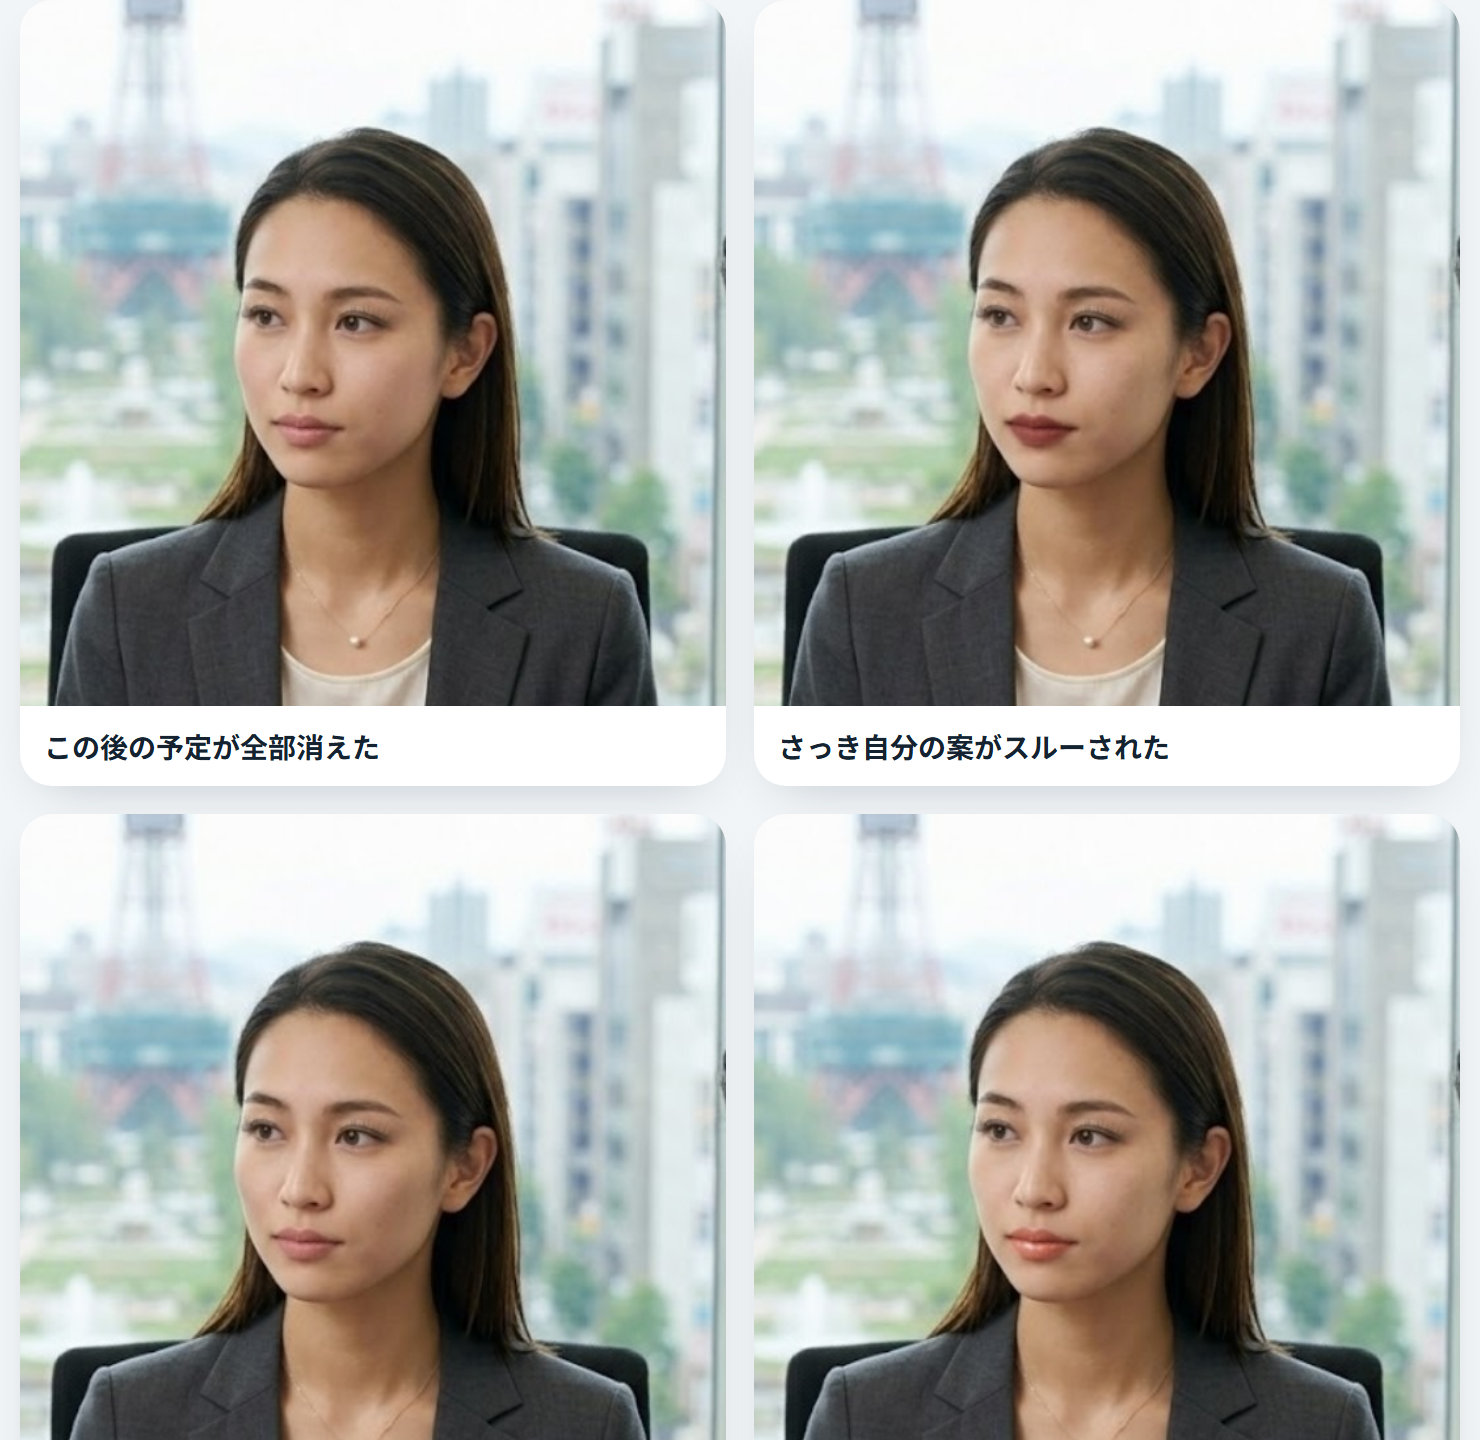
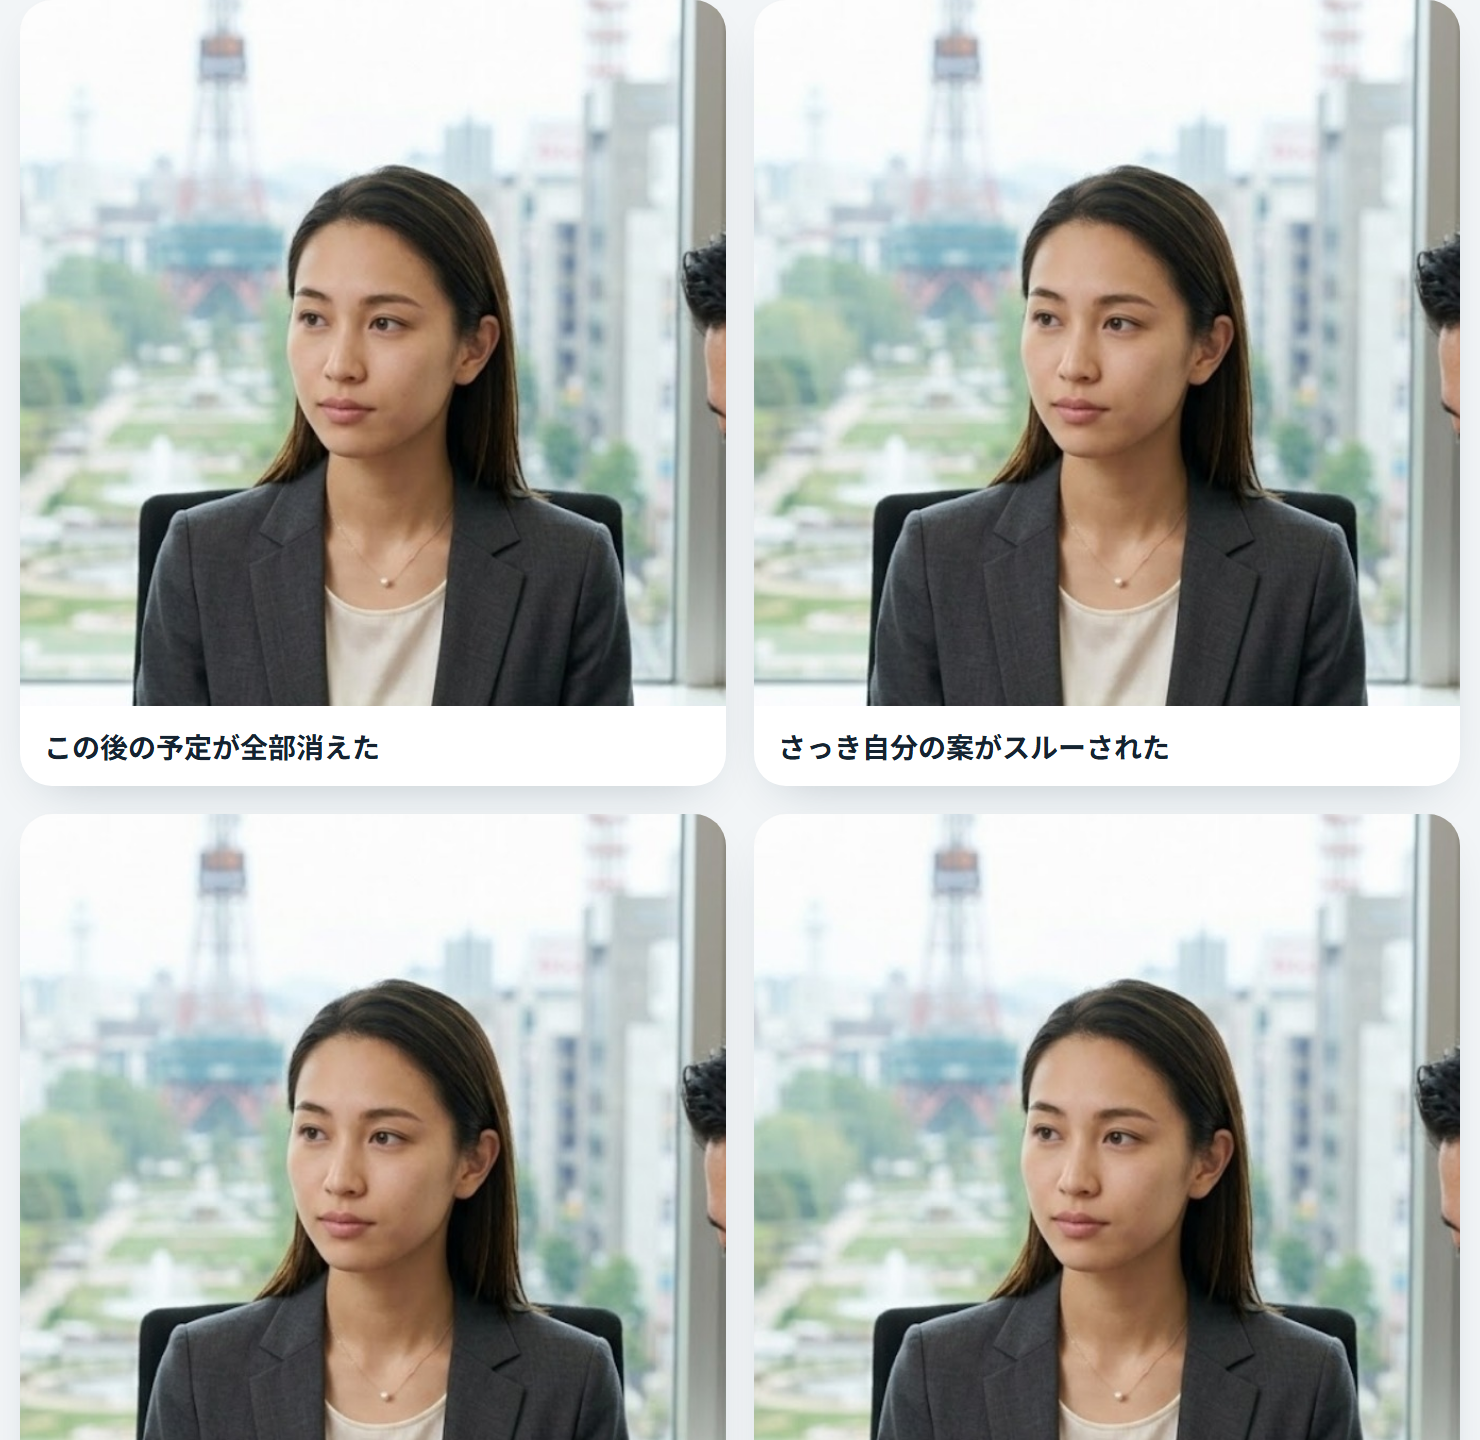
docs: 記事を自然な文章に書き直し（AI調の言い回しを排除）＋スクショ更新

diff --git a/article.md b/article.md
@@ -1,102 +1,90 @@
 ---
-title: "【作ってみた】細かすぎて伝わらないメイク当てクイズ ── YouCamで“今日のあるある”を顔に乗せる"
+title: "細かすぎて伝わらないメイク当てクイズを作った"
 emoji: "💄"
 type: "tech"
 topics: ["youcam", "個人開発", "javascript", "playwright", "zennfes"]
 published: false
 ---
 
-> この記事は **ZennFes Spring 2026** 参加作品です。
-> メイク加工はすべて [YouCam オンラインエディター](https://yce.perfectcorp.com/ja?affiliate=zennfes_spring_2026) で作っています。
-> （画像に入っている透かしも YouCam によるものです）
+> ZennFes Spring 2026 の参加作品です。メイク加工は [YouCam オンラインエディター](https://yce.perfectcorp.com/ja?affiliate=zennfes_spring_2026) を使っています（画像に入っている透かしも YouCam のものです）。
 
-## 細かすぎる“今日のあるある”を、メイクでやりたかった
+## きっかけ
 
-「特に何でもない人」の、言われなきゃ分からない小さな心情。そういう“あるある”を全力で再現するノリが昔から好きで、ずっと思っていました。**メイクでも、できないか?** と。
+会議中に同僚の横顔を見て、「この人、今日ちょっと帰りたそうだな」と勝手に思うことがあります。あとで聞くと全然違う理由だったりもする。
 
-たとえば、会議中のこの人。
+その「言われないと分からないけれど、本人の中では切実」な気分を、メイクに仕込んだら他人に当てられるのか。そこから始めました。たとえば、会議中のこの顔。
 
-> 「微熱があるので場合によっては帰りたい」
+> 微熱があるので場合によっては帰りたい
 
-血色をそっと一段抜いて、チークは置かない。リップはマットでくすませる。でも眉とアイラインは一応ある——だって、**まだ帰るとは言ってない**から。
-
-この“さじ加減”、たぶん他人には**まったく伝わりません**。でも本人の中では精密に再現されている。その滑稽さをクイズにしました。
+血色をひとつ抜いて、チークは置かない。リップはくすませて、でも眉とアイラインは残す（まだ帰ると決めたわけではないので）。……まあ、伝わらないと思います。そこが面白いだろう、という遊びです。
 
 ## 作ったもの
 
-**細かすぎて伝わらないメイク当てクイズ**
-
-🎮 **遊ぶ → https://subara3.github.io/youcam-makeup-quiz/**
+遊べます → https://subara3.github.io/youcam-makeup-quiz/
 
 ![タイトル画面](screenshots/01_title.png)
 
-会議中・通勤中・飲み会中…同じシチュエーション写真に、その人の「今日のあるある」をメイク差分でそっと乗せています。プレイヤーは顔を見て、**4つの“細かすぎるあるある”** から正解を当てる。
+会議中・通勤中・飲み会中といった同じ人の同じシーン写真に、4通りの「今日の気分」をメイクの差分で乗せています。プレイヤーは顔を見て、4つの細かい状況から正解を選びます。
 
 ![出題画面](screenshots/02_quiz.png)
 
-選択肢はあえて喜怒哀楽がバラけるように散らしているので、理不尽な引っかけにはなりません（でも、メイクの違いは細かすぎてほぼ伝わらない）。
+選択肢は喜怒哀楽がばらけるように選んであるので、全部しんどい系で見分けがつかない、みたいな理不尽は起きません。とはいえ、メイクの違いは細かすぎてほとんど伝わりませんが。
 
-答えると、**実際にその顔へ乗せたメイクのパラメータ**が出ます。「あ、リップこの色だったのか」と種明かしされる感じ。
+答えると、その顔に乗せた色を種明かしします。「リップ、この色だったのか」くらいの軽い答え合わせです。
 
-![種明かし＋メイクパラメータ](screenshots/03_reveal.png)
+![種明かし](screenshots/03_reveal.png)
 
-## キモは「同じシチュ × メイク差分」
+## 同じシーンに、違う差分
 
-このクイズの肝は **“同一人物・同一シーン”** であること。だから、用意したシチュ写真1枚に、感情ごとのメイクを乗せ分けて差分化しました。
+![同じ会議中に4通り](screenshots/05_diff.png)
 
-![同じ会議中に4通りのメイク差分](screenshots/05_diff.png)
+同じ会議室、同じ人。違うのは今日の気分だけ。それをリップの色温度、チークの有無、眉の強さで描き分けています。感情ごとの方針はだいたいこんな感じです（細かい値は `PARAMS.md` に置いてあります）。
 
-同じ会議室、同じ人。なのに今日の気分だけが違う——というのを、リップの色温度・チークの有無・眉の強さで表現しています。感情→メイクのマッピングはこんな方針（詳細は `PARAMS.md`）。
+- はしゃぎ：ピンクのグロス、血色とハイライト多め
+- いらだち：深い赤のマット、眉とアイラインを締める
+- しょんぼり：くすんだリップ、チークは置かない
+- ごきげん：コーラルのシアー、自然な血色
 
-| 気分 | メイク差分の方針 |
-| --- | --- |
-| はしゃぎ | ピンクのグロス＋血色＋ラメ＋ハイライト強め |
-| いらだち | ディープレッドのマット＋眉とアイラインを締める |
-| しょんぼり | くすみリップ薄め＋チークを置かない＋ツヤ控えめ |
-| ごきげん | コーラルのシアー＋ナチュラルな血色＋軽いツヤ |
+## 量産は Playwright で
 
-## 量産は Playwright で自動化
+14シーン × 4気分で56枚。手作業はつらいので、YouCam オンラインエディターを Playwright で動かしました。やっていることは二つです。
 
-YouCam のバーチャルメイクは、リップ／チーク／アイシャドウ／アイライナー／アイブロウ／ハイライトを、**色と質感（マット/サテン/シアー/グロス/シマー…）** で個別に指定できます。これが「細かすぎて伝わらない」を作るのにぴったりでした。（なお Web エディタは**濃さは既定で、数値調整はできません**。濃さまで厳密に当てたい場合は後述の API が必要です。）
-
-ただ手作業で 14シーン × 4気分 = 56枚は厳しいので、YouCam オンラインエディターを **Playwright で自動操作**。ポイントは2つ。
-
-**① 目標の色に“いちばん近いスウォッチ”を選ぶ**
-
-エディタのカラーパレットは、各色玉が `background-color` を持っています。これを読んで、狙った hex との距離が最小の玉をクリックすれば、`PARAMS.md` の設計に追従できます。
+ひとつめ。エディタのカラーパレットは各色玉が `background-color` を持っているので、それを読んで、狙った色にいちばん近い玉をクリックします。
 
 ```js
 const balls = [...document.querySelectorAll('[class*="color-ball_singleColor"]')];
-let best, bd = 1e9;
-for (const e of balls) {
-  const [r, g, b] = getComputedStyle(e).backgroundColor.match(/\d+/g).map(Number);
-  const d = (r - tr) ** 2 + (g - tg) ** 2 + (b - tb) ** 2;   // 目標色との距離
-  if (d < bd) { bd = d; best = e; }
+let best, min = Infinity;
+for (const el of balls) {
+  const [r, g, b] = getComputedStyle(el).backgroundColor.match(/\d+/g).map(Number);
+  const d = (r - tr) ** 2 + (g - tg) ** 2 + (b - tb) ** 2; // 狙った色との距離
+  if (d < min) { min = d; best = el; }
 }
 best.click();
 ```
 
-**② DLは有料ゲートなので、結果プレビューを直接キャプチャ**
+ふたつめ。バーチャルメイクは透かしなしのダウンロードが有料なので、ダウンロードは使わず、編集中のプレビュー画面をそのままキャプチャしました。透かしは YouCam のものが残りますが、出どころが分かるのでこの用途では困りませんでした。
 
-バーチャルメイクは透かしなしDLが有料。今回は無料枠＋透かしのまま使いたかったので、編集結果のプレビュー要素を `clip` 撮影しました。透かしは YouCam 製の証なので、記事用途ではむしろ好都合です。
+ブラウザは開いたまま、写真だけ差し替えて56回。途中でタブが落ちたら作り直す、くらいの雑な作りですが、最後まで通りました。
 
-さらに **ブラウザは1セッション開きっぱなし**にして、写真だけエディタ内で差し替え（毎回の再起動なし）。途中でタブが落ちても作り直して継続、既存ファイルはスキップ——で 56枚を一気に生成しました。
+### 正直なところ：濃さは調整できなかった
 
-> 今回の出荷画像は Web エディタ製（色＋質感、濃さは既定）です。**濃さ（colorIntensity 0–100）まで設計通りに当てたい場合**は、同じ `look` を makeup-vto **API**（`/s2s/v2.0/task/makeup-vto`、Bearer 認証）へ渡すスクリプトも入れてあります。色 `#RRGGBB`・濃さ・質感を厳密に指定できます（※API ユニットは有料）。
+最初は色も濃さも数値で指定するつもりでした。が、Web版のエディタには濃さのスライダーがありません。調整できるのは色と質感だけです。なので濃さは YouCam の既定のまま、感情の差は「色」と「どのパーツを使うか」で出しています。
+
+濃さまで数値で指定したい場合は、makeup-vto API（`colorIntensity` を 0〜100 で渡せる）を使う必要があります。同じ設定を API のリクエストに変換するスクリプトも置いてありますが、こちらはユニットが有料です。
 
 ## 結果画面
 
 ![結果画面](screenshots/04_result.png)
 
-正答率でランクが変わります。「雰囲気で生きている」あたりが一番リアルかもしれません。
+正答率でひとことコメントが変わります。「雰囲気で生きている」あたりが、たぶん一番リアルです。
 
-## YouCam、想像より“パラメータで遊べる”
+## おわりに
 
-バーチャルメイクは「プリセットを選ぶもの」だと思っていましたが、色も質感もコードで刻めるので（濃さまで刻むなら API）、**“気分を色で塗る”** みたいな変な遊びができました。
+バーチャルメイクは用意されたメイクから選ぶもの、という認識でしたが、色や質感をコードで指定できるので「気分を色で塗る」みたいな使い方もできました。
 
-自分の顔写真でも同じことができます。[YouCam オンラインエディター](https://yce.perfectcorp.com/ja?affiliate=zennfes_spring_2026) で、あなたの「今日のあるあるメイク」も作ってみてください。たぶん、誰にも伝わりませんが。
+自分の顔写真でも同じことができます。気が向いたら [YouCam オンラインエディター](https://yce.perfectcorp.com/ja?affiliate=zennfes_spring_2026) で、今日の自分の気分も塗ってみてください。たぶん、誰にも伝わりませんが。
 
 ---
 
 *ZennFes Spring 2026 / Powered by [YouCam Online Editor](https://yce.perfectcorp.com/ja?affiliate=zennfes_spring_2026)*
-*※ 記事中のスクショは `screenshots/` 参照。Zenn へは画像を別途アップロードしてパスを差し替えてください。*
+*※ スクショは `screenshots/`。Zenn へは画像を別途アップロードしてパスを差し替えてください。*
